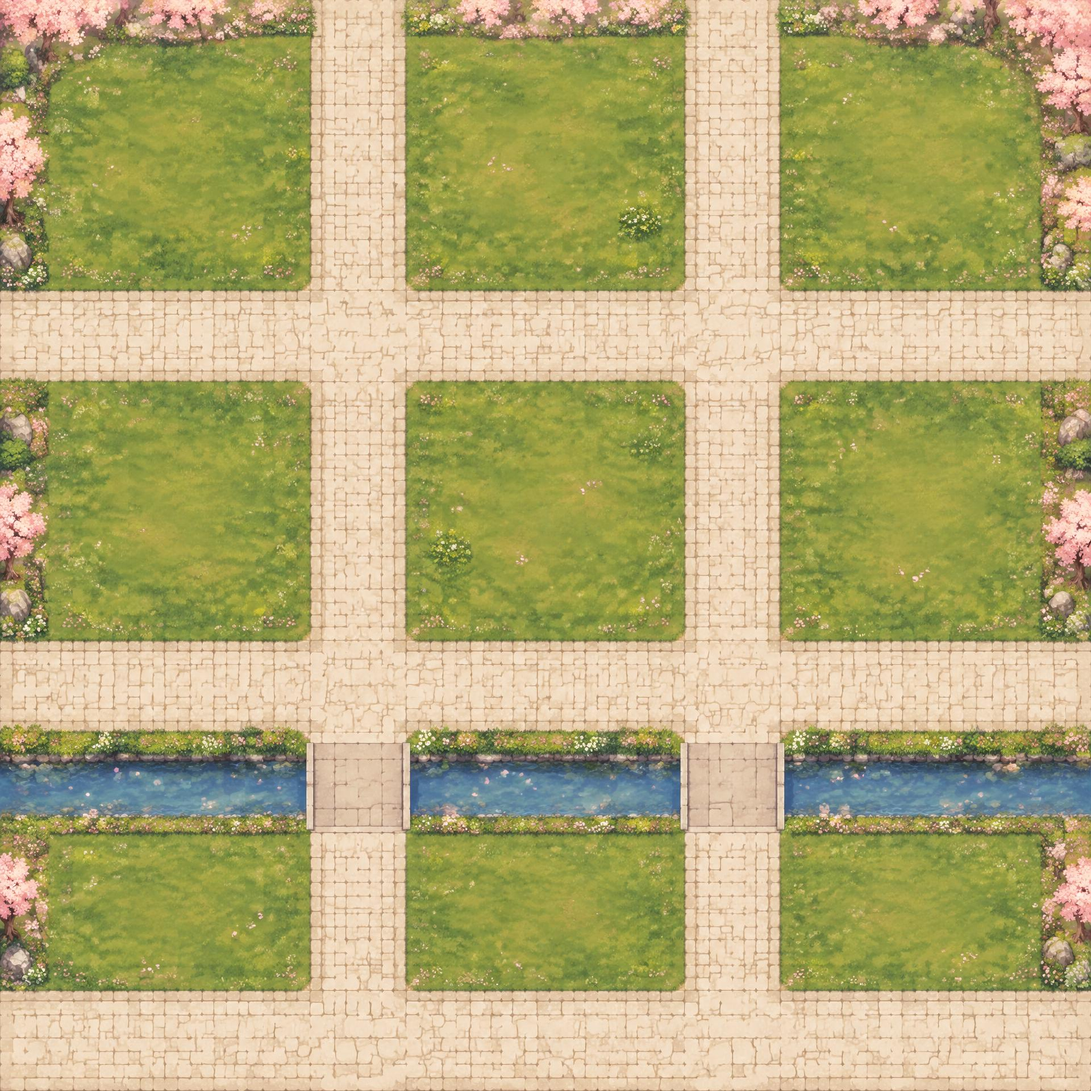
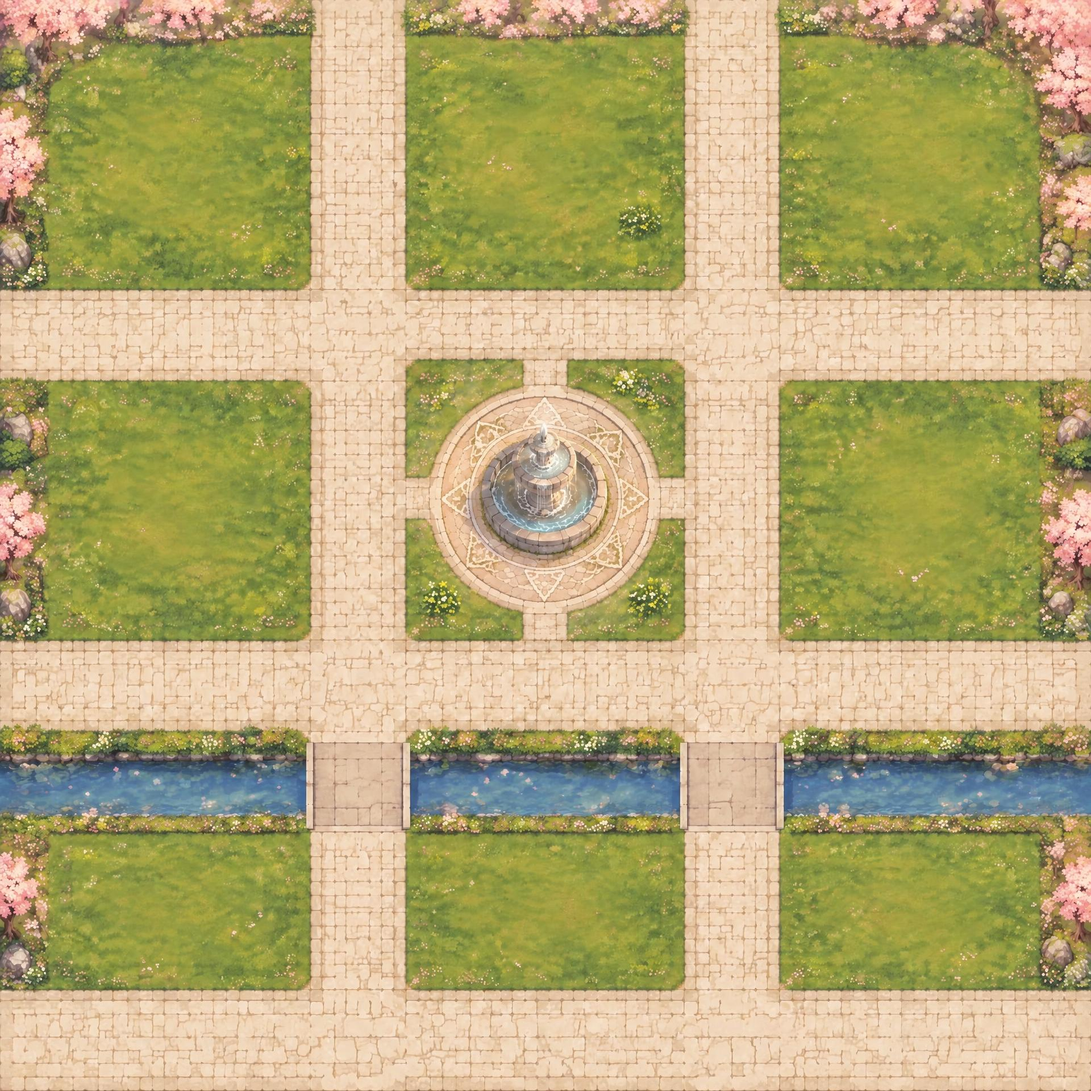
Restore circular fountain hub within surrounding grid streets

diff --git a/src/game/world.ts b/src/game/world.ts
@@ -1,6 +1,7 @@
 // Authoritative placement geometry shared by rendering, map, collision and navigation.
 export const WORLD = { w: 1920, h: 1920 };
-export const SPAWN = { x: 1280, y: 1240 };
+export const HUB = { x: 960, y: 890, radius: 210, fountainRadius: 110 };
+export const SPAWN = { x: 960, y: 1060 };
 const building = (x: number, y: number, w = 290, h = 300) => ({ x, y, w, h, door: { x: x - 25, y: y + 35 } });
 export const LIBRARY = building(300, 530);
 export const GARDEN = building(960, 530, 290, 290);
@@ -19,6 +20,13 @@ export const STREETS = [
  [540, 0, 200, 1920], [1180, 0, 200, 1920],
  [0, 540, 1920, 200], [0, 1140, 1920, 200], [0, 1740, 1920, 180],
 ] as const;
+// The circular social hub connects to the surrounding grid without replacing it.
+export function isWalkingPath(x: number, y: number) {
+ return STREETS.some(([sx,sy,w,h]) => x>=sx&&x<=sx+w&&y>=sy&&y<=sy+h)
+  || Math.hypot(x-HUB.x,y-HUB.y)<=HUB.radius
+  || (Math.abs(x-HUB.x)<=40&&y>=740&&y<=1140)
+  || (Math.abs(y-HUB.y)<=40&&x>=740&&x<=1180);
+}
 export const DISTRICT_ENTRANCES = [{x:640,y:60},{x:1280,y:60},{x:60,y:640},{x:1860,y:640},{x:60,y:1240},{x:1860,y:1240},{x:640,y:1860},{x:1280,y:1860}];
 // Whole illustrated silhouettes are solid: the explorer cannot climb roofs or clip walls.
 export const BLOCKERS: [number,number,number,number][] = [
@@ -30,6 +38,7 @@ export const BLOCKERS: [number,number,number,number][] = [
 export const PLAYER_RADIUS = 20;
 export function isBlocked(x:number,y:number, others: readonly {x:number;y:number}[] = []) {
  if(x<25||y<25||x>1895||y>1895) return true;
- return BLOCKERS.some(([bx,by,w,h]) => x>bx-PLAYER_RADIUS && x<bx+w+PLAYER_RADIUS && y>by-PLAYER_RADIUS && y<by+h+PLAYER_RADIUS)
+ return Math.hypot(x-HUB.x,y-HUB.y)<HUB.fountainRadius+PLAYER_RADIUS
+  || BLOCKERS.some(([bx,by,w,h]) => x>bx-PLAYER_RADIUS && x<bx+w+PLAYER_RADIUS && y>by-PLAYER_RADIUS && y<by+h+PLAYER_RADIUS)
   || others.some(p=>Math.hypot(x-p.x,(y-p.y)*1.4)<34);
 }

diff --git a/src/test/navigation.test.ts b/src/test/navigation.test.ts
@@ -1,7 +1,21 @@
 import {describe,it,expect} from "vitest";
-import {BUILDINGS,DISTRICT_ENTRANCES,isBlocked,STREETS,BLOCKERS} from "@/game/world";
+import {BUILDINGS,DISTRICT_ENTRANCES,isBlocked,STREETS,BLOCKERS,HUB,SPAWN,isWalkingPath} from "@/game/world";
 import {findRoute} from "@/game/navigation";
 describe("town navigation",()=>{
+ it("keeps a circular hub connected to the surrounding grid",()=>{
+  expect(isWalkingPath(HUB.x+170,HUB.y)).toBe(true);
+  expect(isWalkingPath(HUB.x,HUB.y+170)).toBe(true);
+  expect(isBlocked(HUB.x,HUB.y)).toBe(true);
+  expect(isBlocked(SPAWN.x,SPAWN.y)).toBe(false);
+  for(const b of Object.values(BUILDINGS)) expect(findRoute(SPAWN,b.door).length).toBeGreaterThan(0);
+  const route=findRoute({x:HUB.x-170,y:HUB.y},{x:HUB.x+170,y:HUB.y});
+  expect(route.length).toBeGreaterThan(0);
+  for(let i=1;i<route.length;i++) {
+   const a=route[i-1],b=route[i];
+   if(!a||!b) continue;
+   for(let t=0;t<=1;t+=0.05) expect(isBlocked(a.x+(b.x-a.x)*t,a.y+(b.y-a.y)*t)).toBe(false);
+  }
+ });
  it("keeps all building silhouettes off streets",()=>{
   for(const b of Object.values(BUILDINGS)) for(const [x,y,w,h] of STREETS) expect(b.x+b.w/2<=x||b.x-b.w/2>=x+w||b.y<=y||b.y-b.h>=y+h).toBe(true);
  });

diff --git a/src/game/navigation.ts b/src/game/navigation.ts
@@ -1,5 +1,5 @@
 import * as EasyStar from "easystarjs";
-import { isBlocked, WORLD, STREETS } from "./world";
+import { isBlocked, WORLD, isWalkingPath } from "./world";
 export type Point = {x:number;y:number};
 export const CELL = 20;
 export function findRoute(start:Point, end:Point, others:readonly Point[] = []):Point[] {
@@ -8,7 +8,7 @@ export function findRoute(start:Point, end:Point, others:readonly Point[] = []):
  if(blocked(end.x,end.y)) return [];
  const grid=Array.from({length:WORLD.h/CELL},(_,y)=>Array.from({length:WORLD.w/CELL},(_,x)=>{
   const px=x*CELL+CELL/2,py=y*CELL+CELL/2;
-  return blocked(px,py)?1:STREETS.some(([sx,sy,w,h])=>px>=sx&&px<=sx+w&&py>=sy&&py<=sy+h)?0:2;
+  return blocked(px,py)?1:isWalkingPath(px,py)?0:2;
  }));
  const cell=(p:Point)=>({x:Math.floor(p.x/CELL),y:Math.floor(p.y/CELL)});
  const a=cell(start),b=cell(end);

diff --git a/src/game/WaterMotion.ts b/src/game/WaterMotion.ts
@@ -1,4 +1,5 @@
 import Phaser from "phaser";
+import { HUB } from "./world";
 
 // Water highlights use the town's ivory and matcha roles, matching the painted ground.
 const WATER_LIGHT = 0xf6f0e6;
@@ -18,6 +19,10 @@ export class WaterMotion {
       if((x>520&&x<760)||(x>1160&&x<1400)) continue;
       const y=1390+Math.sin(i*13)*25;
       g.lineStyle(1.5,WATER_LIGHT,0.4).lineBetween(x,y,x+20,y+2);
+    }
+    for(let i=0;i<3;i++) {
+      const radius=48+(this.time*12+i*17)%48;
+      g.lineStyle(1,WATER_LIGHT,0.25).strokeEllipse(HUB.x,HUB.y+7,radius*2,radius);
     }
   }
 }

diff --git a/AGENTS.md b/AGENTS.md
@@ -49,4 +49,5 @@ use the editor.
 - Chat turns go through chatTurn in src/lib/chat-core.ts for both the Chat page and the simulation, keeping one AI and saving path.
 - Synthetic identities are authored in sim/stories.ts; dialogue branches use successful per-character exchange memories in sim_users.relationships and actual saved replies, so reruns preserve history without fabricated conversations or extra AI usage.
 - World buildings, streets and collision silhouettes share src/game/world.ts; EasyStar routes are computed in navigation.ts and manual input cancels them, keeping walking and map destinations consistent.
+- Hub walkability and fountain collision use shared world geometry so the street-cost grid respects the circular plaza and its connectors.
 - Anime metadata is a committed AniList snapshot with explicit franchise membership; MAL IDs are positive and AniList-only installment IDs are negative to avoid source-ID collisions, while private account progress/favorites remain separate from metadata and existing rated decks.

diff --git a/roadmap.md b/roadmap.md
@@ -1,4 +1,5 @@
 # AnimeAtlas roadmap
+- [x] Restore the circular fountain hub, retain grid streets for surrounding buildings, and keep routes clear around the fountain.
 ## World navigation and franchise collection overhaul
 - [x] Clear streets, align visible buildings and collision footprints, connect every entrance, and verify desktop/mobile navigation.
 - [x] Add obstacle-aware destination routes and verify NPC/character spacing: all 64 district-to-building scene walks pass; joystick travels and returns to idle.
